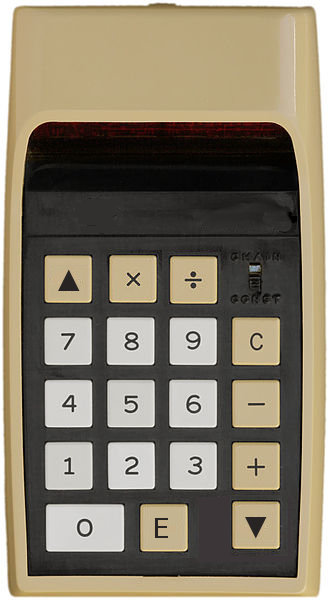
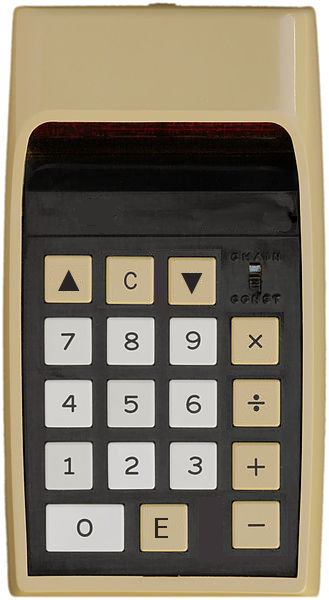
Refactor image click handling. Update Sinclair placeholder image

diff --git a/sinclair_scientific_simulator.html b/sinclair_scientific_simulator.html
@@ -191,12 +191,35 @@ Based on patent US3934233 and visual 6502 reverse engineering
 
 $(document).ready(function() {
   var model = new Model(objectCode);
-  var calcImage = new CalcImage($("#calcImage"), model);
   var keys = [
     ['1', '2', '3', '4', '5', '6', '7', '8', '9', ''],
     ['C', '\u25bc' /* down */, '+', '-', '\u00f7' /* div */, '\u00d7' /* mult */, '\u25b2' /* up */, 'E', '0', ''],
     ['', '', '', '', '', '', '', '', '', '']];
+  // Initialize the positions of the keys in the image
+  var xvals = [[45, 92], [108, 154], [171, 217], [233, 280]];
+  var xbotvals = [[45, 125], [139, 187], [202, 280]];
+  var yvals = [[254, 303], [316, 365], [379, 427], [441, 490], [503, 552]];
+  var keypos = {
+    '\u25b2' /* up */: [xvals[0], yvals[0]],
+    'C': [xvals[1], yvals[0]],
+    '\u25bc' /* down */: [xvals[2], yvals[0]],
+    '7': [xvals[0], yvals[1]],
+    '8': [xvals[1], yvals[1]],
+    '9': [xvals[2], yvals[1]],
+    '\u00d7' /* mult */: [xvals[3], yvals[1]],
+    '4': [xvals[0], yvals[2]],
+    '5': [xvals[1], yvals[2]],
+    '6': [xvals[2], yvals[2]],
+    '\u00f7' /* div */: [xvals[3], yvals[2]],
+    '1': [xvals[0], yvals[3]],
+    '2': [xvals[1], yvals[3]],
+    '3': [xvals[2], yvals[3]],
+    '+': [xvals[3], yvals[3]],
+    '0': [xbotvals[0], yvals[4]],
+    'E': [xbotvals[1], yvals[4]],
+    '-': [xbotvals[2], yvals[4]]};
   var keygrid = new Keygrid($("#keygrid")[0], model, keys);
+  var calcImage = new CalcImage($("#calcImage"), model, keypos);
   var registers = new Registers($("#registers")[0], model);
   var display = new Display($("#display"), model);
   var display2 = new Display($("#calcDisplay"), model, 1 /* sinclair */);

diff --git a/calcImage.js b/calcImage.js
@@ -4,39 +4,16 @@
 //
 // This file implements the clickable image of the calculator.
 
-var CalcImage = function(elem, model) {
+var CalcImage = function(elem, model, keypos) {
   this.model = model;
-  // Initialize the positions of the keys in the image
-  var xvals = [[45, 92], [108, 154], [171, 217], [233, 280]];
-  var xbotvals = [[45, 125], [139, 187], [202, 280]];
-  var yvals = [[254, 303], [316, 365], [379, 427], [441, 490], [503, 552]];
-  this.keypos = {
-    'CE': [xvals[0], yvals[0]],
-    '/': [xvals[1], yvals[0]],
-    '*': [xvals[2], yvals[0]],
-    '7': [xvals[0], yvals[1]],
-    '8': [xvals[1], yvals[1]],
-    '9': [xvals[2], yvals[1]],
-    'C': [xvals[3], yvals[1]],
-    '4': [xvals[0], yvals[2]],
-    '5': [xvals[1], yvals[2]],
-    '6': [xvals[2], yvals[2]],
-    '-': [xvals[3], yvals[2]],
-    '1': [xvals[0], yvals[3]],
-    '2': [xvals[1], yvals[3]],
-    '3': [xvals[2], yvals[3]],
-    '+': [xvals[3], yvals[3]],
-    '0': [xbotvals[0], yvals[4]],
-    '.': [xbotvals[1], yvals[4]],
-    '=': [xbotvals[2], yvals[4]]};
 
   // Return the key value or null associated with a position
   this.findKey = function(x, y) {
     // Scale coordinates to original image dimensions
     x = x / this.width * 329;
     y = y / this.height * 600;
-    for (var k in this.keypos) {
-      if (this.keypos[k][0][0] <= x && this.keypos[k][0][1] >= x && this.keypos[k][1][0] <= y && this.keypos[k][1][1] >= y) {
+    for (var k in keypos) {
+      if (keypos[k][0][0] <= x && keypos[k][0][1] >= x && keypos[k][1][0] <= y && keypos[k][1][1] >= y) {
       return k;
       }
     }

diff --git a/TI_calculator_simulator.html b/TI_calculator_simulator.html
@@ -191,12 +191,35 @@ Based on patent US3934233
 
 $(document).ready(function() {
   var model = new Model(objectCode);
-  var calcImage = new CalcImage($("#calcImage"), model);
   var keys = [
     ['1', '2', '3', '4', '5', '6', '7', '8', '9', ''],
     ['C', '=', '+', '-', '*', '/', 'CE', '.', '0', 'D'],
     ['', '', '', '', '', '', '', '', '', '']];
+  // Initialize the positions of the keys in the image
+  var xvals = [[45, 92], [108, 154], [171, 217], [233, 280]];
+  var xbotvals = [[45, 125], [139, 187], [202, 280]];
+  var yvals = [[254, 303], [316, 365], [379, 427], [441, 490], [503, 552]];
+  var keypos = {
+    'CE': [xvals[0], yvals[0]],
+    '/': [xvals[1], yvals[0]],
+    '*': [xvals[2], yvals[0]],
+    '7': [xvals[0], yvals[1]],
+    '8': [xvals[1], yvals[1]],
+    '9': [xvals[2], yvals[1]],
+    'C': [xvals[3], yvals[1]],
+    '4': [xvals[0], yvals[2]],
+    '5': [xvals[1], yvals[2]],
+    '6': [xvals[2], yvals[2]],
+    '-': [xvals[3], yvals[2]],
+    '1': [xvals[0], yvals[3]],
+    '2': [xvals[1], yvals[3]],
+    '3': [xvals[2], yvals[3]],
+    '+': [xvals[3], yvals[3]],
+    '0': [xbotvals[0], yvals[4]],
+    '.': [xbotvals[1], yvals[4]],
+    '=': [xbotvals[2], yvals[4]]};
   var keygrid = new Keygrid($("#keygrid")[0], model, keys);
+  var calcImage = new CalcImage($("#calcImage"), model, keypos);
   var registers = new Registers($("#registers")[0], model);
   var display = new Display($("#display"), model);
   var display2 = new Display($("#calcDisplay"), model);
